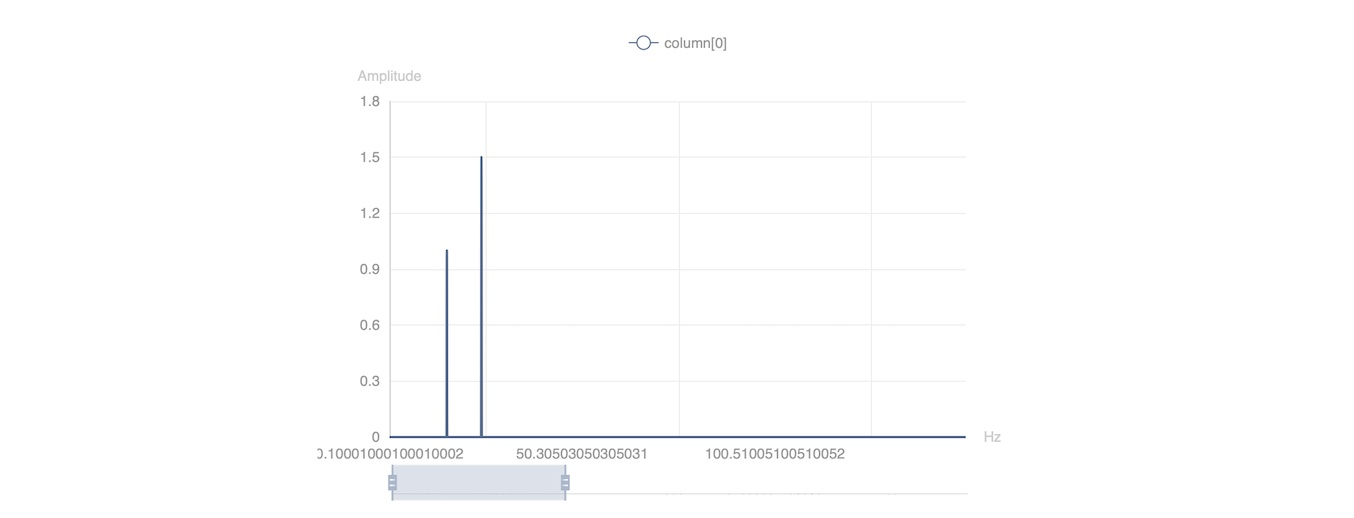
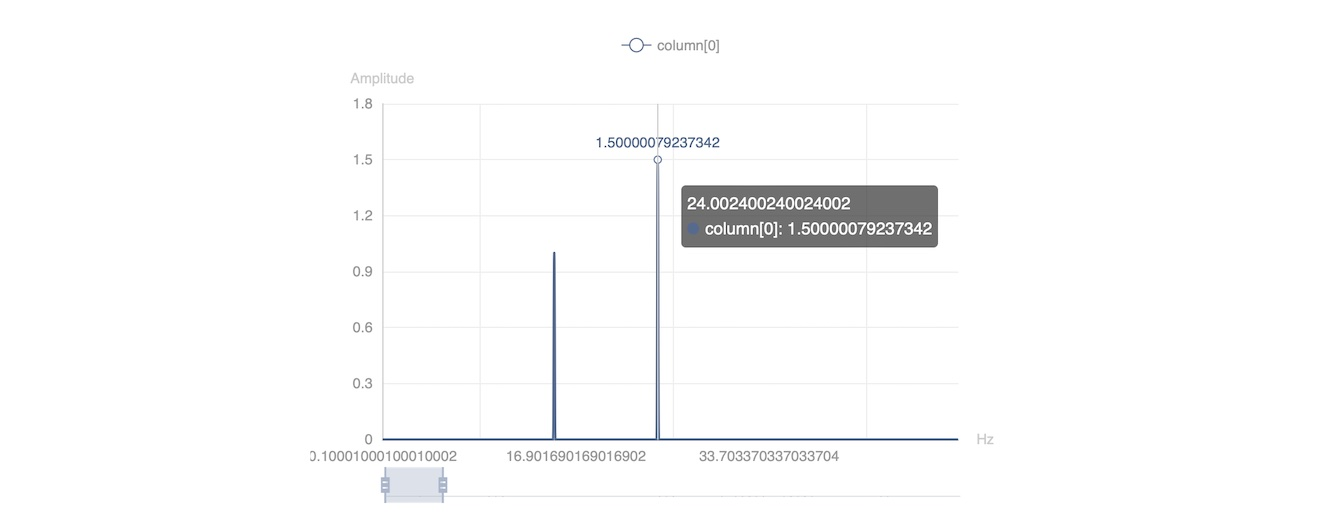
update image

diff --git a/docs/letsmakewaves/tql-fft.md b/docs/letsmakewaves/tql-fft.md
@@ -71,7 +71,7 @@ OUTPUT(
   CHART_LINE(
         xAxis(0, 'Hz'),
         yAxis(1, 'Amplitude'),
-        dataZoom('slider', 0, 30) 
+        dataZoom('slider', 0, 10) 
     )
 )
 ```
